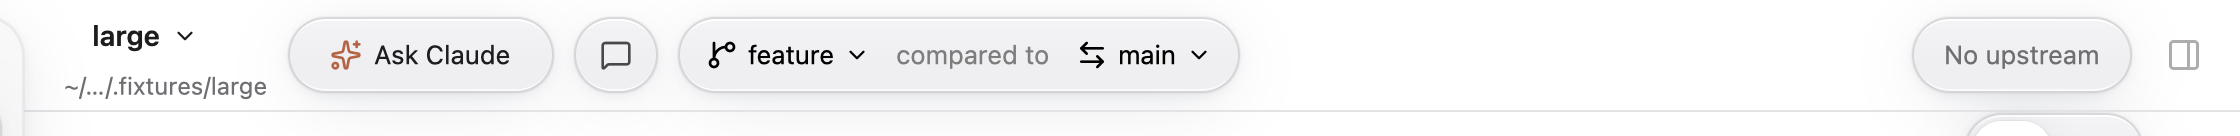
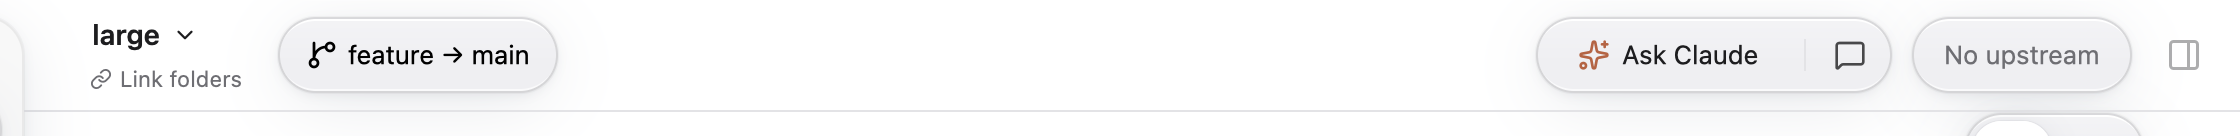
feat(app): group the toolbar into compare, Claude and remote areas
What you compare now sits next to the folder name. Ask Claude and the
comments button share one pill on the right, next to push and pull.

diff --git a/gpui-app/src/repo_view.rs b/gpui-app/src/repo_view.rs
@@ -1353,24 +1353,19 @@ impl RepoView {
             ),
             _ => None,
         };
-        let pill = self.session.as_ref().map(|session| {
-            anchor(capsule(&tokens, CAPSULE_HEIGHT), Stop::Review)
-                .id("toolbar-claude-slot")
-                .px(px(6.))
-                .child(session.pill.clone())
-                .child(session.fix.clone())
-        });
-        let comments = self.session.as_ref().map(|session| {
+        let claude = self.session.as_ref().map(|session| {
             let open = open_count(session.review.read(cx));
             let icon = Icon::new(Glyph::MessageSquare)
                 .size(px(16.))
                 .text_color(tokens.ui.text2);
             let (hover, press) = (tokens.hover, tokens.press);
-            tag(
-                capsule(&tokens, CAPSULE_HEIGHT)
+            let comments = tag(
+                h_flex()
                     .id("toolbar-comments")
-                    .px(px(12.))
+                    .h_full()
+                    .px(px(10.))
                     .gap(px(6.))
+                    .rounded_full()
                     .cursor_pointer()
                     .when(self.comments_open(cx), |this| this.bg(press))
                     .hover(move |style| style.bg(hover))
@@ -1389,7 +1384,16 @@ impl RepoView {
                         )
                     })),
                 || "toolbar:comments",
-            )
+            );
+            anchor(capsule(&tokens, CAPSULE_HEIGHT), Stop::Review)
+                .id("toolbar-claude-slot")
+                .pl(px(6.))
+                .pr(px(2.))
+                .gap(px(4.))
+                .child(session.pill.clone())
+                .child(session.fix.clone())
+                .child(div().w(px(1.)).h(px(16.)).bg(tokens.ui.line))
+                .child(comments)
         });
         let activity = self
             .remote
@@ -1439,10 +1443,9 @@ impl RepoView {
                     }),
                 ),
         )
-        .children(pill)
-        .children(comments)
         .children(control)
         .child(div().flex_1())
+        .children(claude)
         .children(activity)
         .child(inspector)
         .into_any_element()

diff --git a/CHANGELOG.md b/CHANGELOG.md
@@ -26,6 +26,8 @@ The format is based on [Keep a Changelog](https://keepachangelog.com/en/2.0.0/),
 - The folder menu item Add Folder… is now called Open Folder…. Open Folder… and ⌘O open the sheet, not the system folder picker.
 - The title bar now shows what you compare as one label, like feature → main. Click it to open the Open Folder sheet on this folder and change the branches or pick a pull request.
 - Guide mode no longer has its own Link button. Link folders from the title bar. Rewrite shows a hint when the linked folders changed since the guide was written.
+
+- The toolbar is regrouped. What you compare sits next to the folder name. Ask Claude and the comments button share one pill on the right, next to push and pull.
 - Every list and panel that scrolls shows a scrollbar while you scroll, like the diff: the Guide, the inspector, comments, settings, menus, checks, Claude's plan and log, and the Open Folder lists. Drag it to move fast.
 
 ### Fixed
